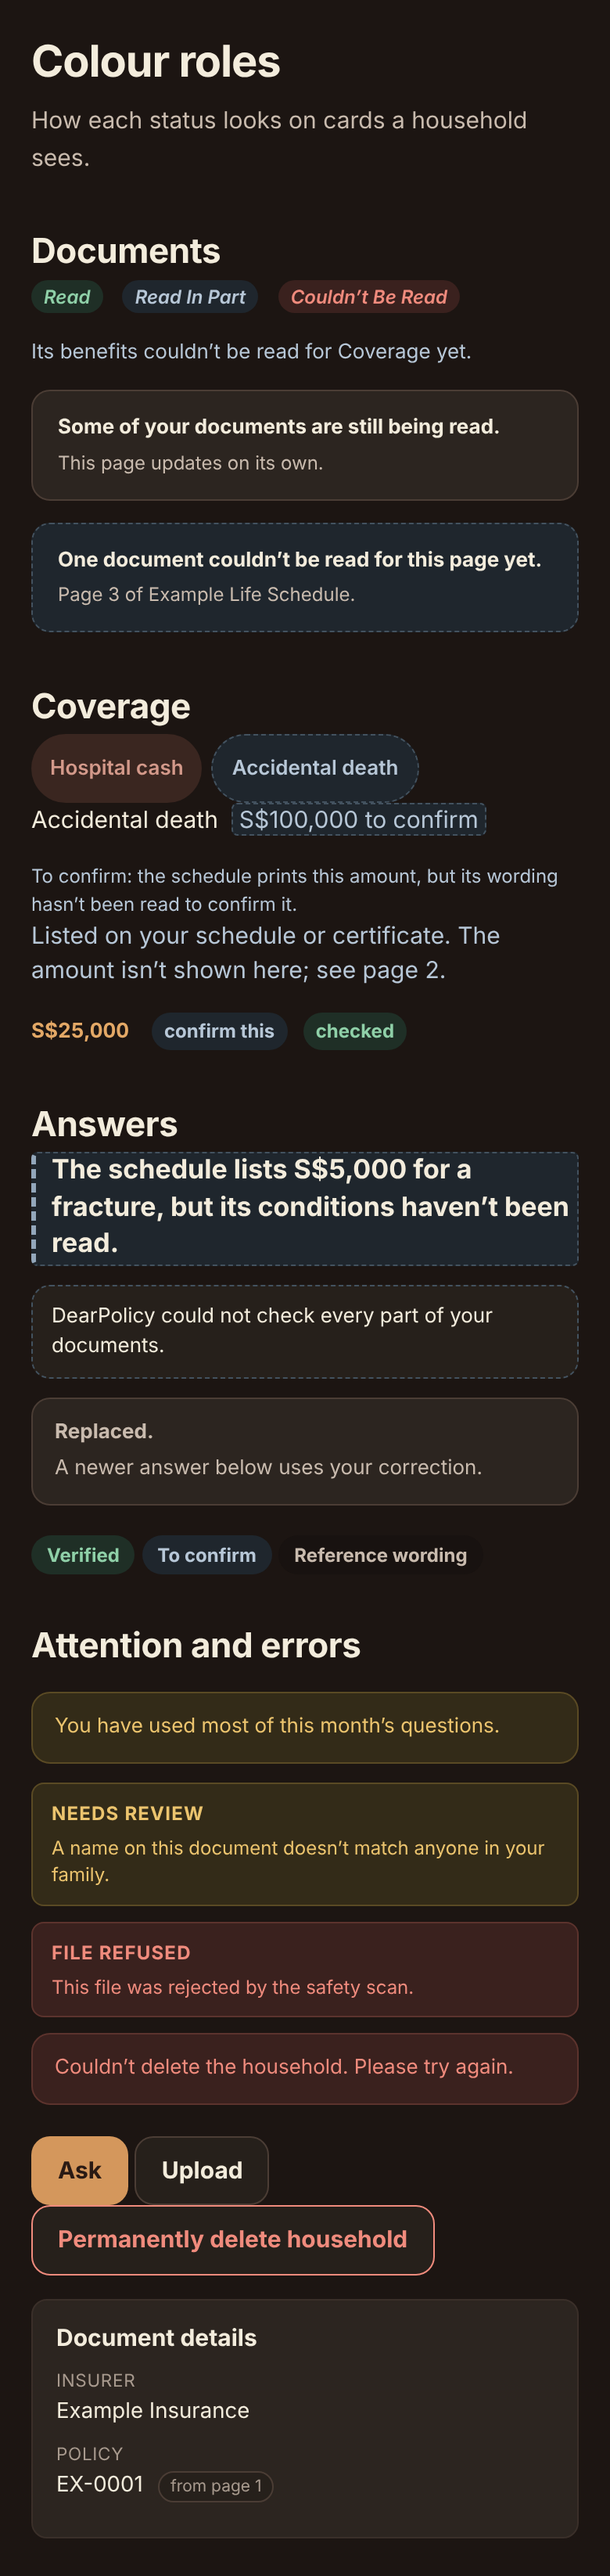
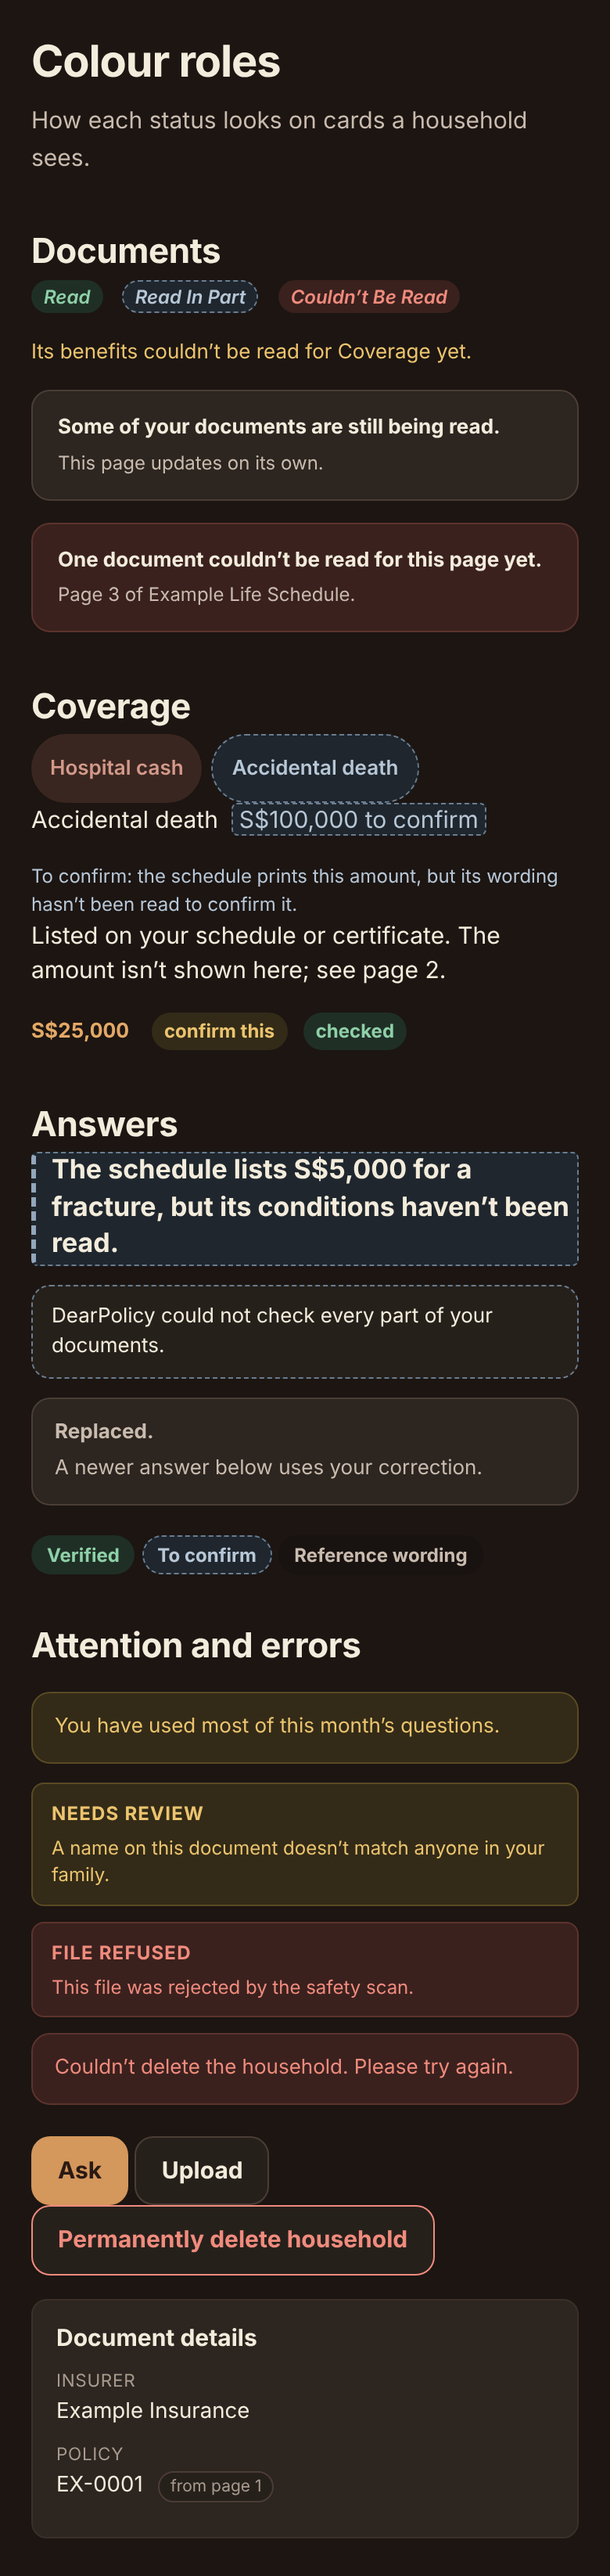
Brand: keep failed reads as errors and actions as warnings (Critic R1)
- Stalled/failed reads with Try again stay critical/warn, not unresolved.
- .muted-cell scoped back to the schedule table.
- Needs-a-document, confirm-this and not-used-until-confirmed stay warn.
- Unresolved dashed edge darkened to 3:1 and checked; chips get the edge.
- Test 5 pins which meaning gets which role; scan also covers .ts files.
- Danger button keeps its red edge on hover; brand.md claims corrected.

Claude-Session: https://claude.ai/code/session_01JsrpozToei7P4NZHaSzJyD

Changed region(s): [[0.0308, 0.1859, 0.9538, 0.2479], [0.2769, 0.3718, 0.4615, 0.4028]]

diff --git a/app/globals.css b/app/globals.css
@@ -59,7 +59,7 @@
   --unresolved: #5d6f82;      /* dots and edges, 4.9:1 on --surface */
   --unresolved-text: #3f5165; /* 7.6:1 on --unresolved-tint */
   --unresolved-tint: #edf1f5;
-  --unresolved-line: #a8b6c4;
+  --unresolved-line: #76879a; /* dashed edge, 3.2:1 on its tint */
 
   --info-text: var(--ink-2);
   --info-tint: var(--surface-2);
@@ -86,7 +86,7 @@
     --good: #7fc49a; --good-text: #8fd0a8; --good-tint: #1f2f26; --good-line: #33503f;
     --warn: #e8b85a; --warn-text: #ecc46e; --warn-tint: #332b18; --warn-line: #5a4a24;
     --critical: #f08b7d; --critical-tint: #3a211e; --critical-line: #5c332d;
-    --unresolved: #93a7bb; --unresolved-text: #b7c7d7; --unresolved-tint: #1f262d; --unresolved-line: #43525f;
+    --unresolved: #93a7bb; --unresolved-text: #b7c7d7; --unresolved-tint: #1f262d; --unresolved-line: #6a7d90;
     --scrim: rgba(0, 0, 0, .5);
     --shadow-float: 0 4px 14px rgba(0, 0, 0, .45), 0 1px 2px rgba(0, 0, 0, .3);
     --focus: 0 0 0 3px rgba(211, 153, 138, .45);
@@ -201,7 +201,7 @@ a.mini-button { display: inline-flex; align-items: center; text-decoration: none
 .status { border-radius: 999px; padding: 3px 8px; background: var(--bg-2); color: var(--ink-2); text-transform: capitalize; font-size: var(--fs-xs); font-weight: 600; }
 .status.ready { background: var(--good-tint); color: var(--good-text); }
 .status.failed { background: var(--critical-tint); color: var(--critical); }
-.status.ready.partial { background: var(--unresolved-tint); color: var(--unresolved-text); }
+.status.ready.partial { background: var(--unresolved-tint); color: var(--unresolved-text); outline: 1px dashed var(--unresolved-line); outline-offset: -1px; }
 .status.queued, .status.uploaded, .status.extracting, .status.indexing { background: var(--brand-tint); color: var(--brand-ink); }
 .good { color: var(--good-text) !important; }
 .muted { color: var(--muted) !important; }
@@ -366,7 +366,7 @@ a.mini-button { display: inline-flex; align-items: center; text-decoration: none
 .profile-status { margin: 0; font-size: var(--fs-sm); color: var(--ink-2); }
 .profile-status.error { color: var(--critical); font-weight: 600; }
 .profile-fields[hidden] { display: none; }
-.button.danger { border-color: var(--critical); color: var(--critical); }
+.button.danger, .button.danger:hover { border-color: var(--critical); color: var(--critical); }
 .document-list { display: grid; gap: 12px; }
 .document-card { background: var(--surface); border: 1px solid var(--line); border-radius: var(--r-lg); padding: 16px; display: grid; gap: 12px; }
 .document-card.needs-review { border-color: var(--warn-line); }
@@ -379,7 +379,7 @@ a.mini-button { display: inline-flex; align-items: center; text-decoration: none
 .document-title .document-file { font-size: var(--fs-xs); color: var(--muted); overflow-wrap: anywhere; }
 .document-for, .document-found, .document-names { margin: 0; font-size: var(--fs-sm); color: var(--ink-2); }
 .document-for b, .document-found b { color: var(--ink); margin-right: 4px; }
-.document-found.warn { color: var(--unresolved-text); }
+.document-found.warn { color: var(--warn-text); }
 .document-names { font-size: var(--fs-xs); color: var(--muted); }
 .document-override { margin: 0; font-size: var(--fs-sm); color: var(--ink-2); }
 .document-title .status { justify-self: start; margin-top: 4px; font-style: normal; text-transform: none; white-space: nowrap; }
@@ -438,7 +438,7 @@ a.mini-button { display: inline-flex; align-items: center; text-decoration: none
 .evidence-card-head span { font-size: var(--fs-xs); color: var(--muted); }
 .evidence-badge { font-size: var(--fs-xs); font-weight: 650; border-radius: 999px; padding: 5px 10px; white-space: nowrap; }
 .evidence-badge.verified { background: var(--good-tint); color: var(--good-text); }
-.evidence-badge.review { background: var(--unresolved-tint); color: var(--unresolved-text); }
+.evidence-badge.review { background: var(--unresolved-tint); color: var(--unresolved-text); outline: 1px dashed var(--unresolved-line); outline-offset: -1px; }
 .evidence-badge.reference { background: var(--bg-2); color: var(--ink-2); }
 .evidence-amount { font-size: var(--fs-2xl); font-weight: 650; letter-spacing: -.02em; color: var(--money); font-variant-numeric: tabular-nums; }
 .evidence-meta { display: flex; gap: 8px; flex-wrap: wrap; color: var(--muted); font-size: var(--fs-xs); }
@@ -575,8 +575,8 @@ a.mini-button { display: inline-flex; align-items: center; text-decoration: none
 .composition-benefit-head strong { font-size: var(--fs-md); font-variant-numeric: tabular-nums; color: var(--money); }
 .composition-benefit-head em { font-style: normal; font-size: var(--fs-xs); text-transform: uppercase; letter-spacing: .06em; font-weight: 650; color: var(--muted); }
 .composition-benefit.included .composition-benefit-head em { color: var(--good-text); }
-.composition-benefit.blocked .composition-benefit-head em { color: var(--warn-text); }
-.composition-benefit.needs_document .composition-benefit-head em, .composition-benefit.needs_review .composition-benefit-head em { color: var(--unresolved-text); }
+.composition-benefit.blocked .composition-benefit-head em, .composition-benefit.needs_document .composition-benefit-head em { color: var(--warn-text); }
+.composition-benefit.needs_review .composition-benefit-head em { color: var(--unresolved-text); }
 .composition-benefit.excluded .composition-benefit-head strong { color: var(--muted); }
 .composition-blocked-reason { font-size: var(--fs-sm); line-height: 1.5; margin: 4px 0; color: var(--ink-2); }
 .composition-why { margin-top: 6px; }
@@ -686,12 +686,12 @@ a.mini-button { display: inline-flex; align-items: center; text-decoration: none
 .schedule-table th { font-size: var(--fs-xs); text-transform: uppercase; letter-spacing: .05em; color: var(--muted); font-weight: 650; }
 .schedule-table td strong { font-size: var(--fs-sm); }
 .schedule-table td em { color: var(--muted); font-style: normal; }
-.schedule-table tr.needs-review { background: var(--unresolved-tint); }
+.schedule-table tr.needs-review { background: var(--warn-tint); }
 .schedule-table .pays-cell { font-weight: 650; color: var(--money); font-variant-numeric: tabular-nums; }
-.schedule-table .muted-cell, .muted-cell { color: var(--unresolved-text); }
-.schedule-flag { display: inline-block; margin-left: 6px; font-size: var(--fs-xs); font-weight: 650; padding: 3px 8px; border-radius: 999px; background: var(--unresolved-tint); color: var(--unresolved-text); white-space: nowrap; }
+.schedule-table .muted-cell { color: var(--unresolved-text); }
+.schedule-flag { display: inline-block; margin-left: 6px; font-size: var(--fs-xs); font-weight: 650; padding: 3px 8px; border-radius: 999px; background: var(--warn-tint); color: var(--warn-text); white-space: nowrap; }
 .schedule-flag.checked { background: var(--good-tint); color: var(--good-text); }
-.pays-unconfirmed { display: block; margin-top: 3px; font-size: var(--fs-xs); font-weight: 500; color: var(--unresolved-text); line-height: 1.35; }
+.pays-unconfirmed { display: block; margin-top: 3px; font-size: var(--fs-xs); font-weight: 500; color: var(--warn-text); line-height: 1.35; }
 .pays-basis { display: block; margin-top: 3px; font-size: var(--fs-xs); font-weight: 500; color: var(--muted); line-height: 1.35; }
 .schedule-editor { display: grid; grid-template-columns: minmax(0, 1fr) minmax(0, 1fr); gap: 16px; margin-top: 12px; padding: 16px; border: 1px solid var(--brand-tint-2); border-radius: var(--r-md); background: var(--brand-tint); }
 .schedule-editor-source small { font-size: var(--fs-xs); text-transform: uppercase; letter-spacing: .05em; color: var(--muted); font-weight: 650; }
@@ -1087,7 +1087,7 @@ a.mini-button { display: inline-flex; align-items: center; text-decoration: none
 .upload-drop .upload-drop-hint { font-size: var(--fs-sm); color: var(--ink-2); }
 .upload-form .upload-status { grid-column: 1 / -1; margin-top: 0; }
 .field-note { display: block; margin-top: 4px; font-size: var(--fs-xs); color: var(--muted); }
-.unread-documents.stalled { border-color: var(--unresolved-line); border-style: dashed; background: var(--unresolved-tint); }
+.unread-documents.stalled { border-color: var(--critical-line); background: var(--critical-tint); }
 @media (max-width: 620px) { .trust-strip { display: none; } }
 .field-hint { font-size: var(--fs-xs); color: var(--muted); margin: 4px 0 0; min-height: 0; }
 .field-hint:empty { display: none; }
@@ -1118,7 +1118,7 @@ a.mini-button { display: inline-flex; align-items: center; text-decoration: none
 .answer-bottom-line { font-size: var(--fs-lg, 1.1rem); font-weight: 650; line-height: 1.4; color: var(--ink); margin: 0; }
 /* An answer the documents leave to confirm: flagged before its first word, never drawn like a finding. */
 .answer-bottom-line.to-confirm { border-left: 3px dashed var(--unresolved); padding-left: 10px; }
-.answer-flag { display: block; width: fit-content; margin-bottom: 4px; padding: 1px 8px; border-radius: 999px; background: var(--warn-tint); color: var(--warn-text); font-size: var(--fs-xs); font-weight: 650; letter-spacing: .02em; }
+.answer-flag { display: block; width: fit-content; margin-bottom: 4px; padding: 1px 8px; border-radius: 999px; background: var(--unresolved-tint); color: var(--unresolved-text); border: 1px dashed var(--unresolved-line); font-size: var(--fs-xs); font-weight: 650; letter-spacing: .02em; }
 .answer-cards > .next-steps { margin: 0; }
 /* A turn that stopped before answering: a stop, with one tap to a narrower question. */
 .answer-stopped { display: grid; gap: 6px; }

diff --git a/scripts/brand/tokens-test.ts b/scripts/brand/tokens-test.ts
@@ -63,7 +63,7 @@ test("1. no colour literal outside the token blocks", () => {
     for (const name of readdirSync(dir)) {
       const p = join(dir, name);
       if (statSync(p).isDirectory()) { if (p !== join("app", "api")) walk(p); }
-      else if (/\.tsx$/.test(name)) files.push(p);
+      else if (/\.tsx?$/.test(name)) files.push(p);
     }
   };
   walk("app"); walk("components");
@@ -108,6 +108,9 @@ const PAIRS: Array<[string, string, number, string]> = [
   ["--good-text", "--surface", 4.5, "confirmed text"],
   ["--unresolved-text", "--unresolved-tint", 4.5, "a to-confirm chip"],
   ["--unresolved-text", "--surface", 4.5, "not-settled text on a card"],
+  ["--unresolved-text", "--surface-2", 4.5, "not-settled text in a quiet block"],
+  ["--unresolved-line", "--surface", 3, "the dashed edge of a not-settled item"],
+  ["--unresolved-line", "--unresolved-tint", 3, "the dashed edge on its own tint"],
   ["--warn-text", "--warn-tint", 4.5, "a warning box"],
   ["--warn-text", "--surface", 4.5, "warning text on a card"],
   ["--critical", "--critical-tint", 4.5, "an error box"],
@@ -135,4 +138,28 @@ test("4. the four status roles are told apart by more than hue", () => {
     assert.equal(seen.size, roles.length, "each status role has its own colour");
   }
   assert.match(css, /\.to-confirm \{[^}]*dashed/, "a to-confirm item has a dashed edge, not only a colour");
+});
+
+// Which meaning gets which role. A failure the household can retry is never
+// drawn as calm uncertainty; uncertainty is never drawn as a failure.
+const ROLE_OF: Array<[RegExp, string, string]> = [
+  [/\.unread-documents\.stalled \{[^}]*/, "--critical", "a read that failed, with Try again, is an error"],
+  [/\.status\.failed \{[^}]*/, "--critical", "a document that couldn't be read is an error"],
+  [/\.accuracy-warning\.danger \{[^}]*/, "--critical", "a file refused by the scan is an error"],
+  [/\.alert\.error \{[^}]*/, "--critical", "an error box"],
+  [/\.document-found\.warn \{[^}]*/, "--warn", "benefits that failed to read need the household"],
+  [/\.usage-warnings \{[^}]*/, "--warn", "a limit close to running out"],
+  [/\.status\.ready\.partial \{[^}]*/, "--unresolved", "Read in part is not settled"],
+  [/\.to-confirm \{[^}]*/, "--unresolved", "an amount to confirm is not settled"],
+  [/\.coverage-unconfirmed \{[^}]*/, "--unresolved", "a printed amount whose wording isn't read"],
+  [/\.estimate-basis\.indicative \{[^}]*/, "--unresolved", "an illustration is not a settled amount"],
+  [/\.unread-documents \{[^}]*/, "--info", "still being read is neutral news"],
+  [/\.status\.ready \{[^}]*/, "--good", "a read document is confirmed"],
+];
+test("5. each meaning keeps its role", () => {
+  const wrong = ROLE_OF.flatMap(([rule, role, why]) => {
+    const body = rule.exec(rest)?.[0] ?? "";
+    return body.includes(`var(${role}`) ? [] : [`${why}: expected ${role} in "${body.slice(0, 90)}"`];
+  });
+  assert.deepEqual(wrong, []);
 });

diff --git a/docs/brand.md b/docs/brand.md
@@ -5,14 +5,17 @@ It should feel calm, clear, trustworthy and warm: a knowledgeable friend
 sitting at the kitchen table, not a bank, not a salesperson.
 
 The tokens live at the top of `app/globals.css`. `npm run brand:tokens-test`
-fails the build if a colour is hard-coded elsewhere, if a page uses an
-undefined token, or if a role drops below WCAG AA in light or dark.
+(a CI step) fails if the stylesheet hard-codes a colour outside the token
+blocks, if a page or component sets a colour literal in a style, if any
+`var(--token)` is undefined, if a role drops below WCAG AA in light or dark,
+or if a key meaning (failed read, to confirm, still reading…) changes role.
 
 ## Colour carries meaning
 
 Each colour has one meaning and is spent on nothing else. A status is never
-told by colour alone: it always has words, and an unresolved item also has a
-dashed edge.
+told by colour alone: it always has words. Unresolved boxes, chips and the
+to-confirm answer line also have a dashed edge; unresolved plain text
+relies on its words.
 
 | Role | Tokens | Means | Used for |
 | --- | --- | --- | --- |
@@ -20,17 +23,17 @@ dashed edge.
 | Action | `--accent`, `--accent-ink` | something to press | the primary button on a screen (one per view) |
 | Documented figure | `--money` | an amount printed in the household's documents | benefit and claim amounts, totals; always tabular figures |
 | Confirmed | `--good-*` | read, matched, verified, saved | "Read", "Matched", "Saved", a covered benefit |
-| Unresolved | `--unresolved-*` + dashed edge | not settled yet; no fault of the household | a page not read, "Read in part", an amount to confirm, a benefit that depends on conditions, an indicative estimate |
-| Warning | `--warn-*` | the household should look or decide | a name to confirm, a claim waiting on their documents, a usage limit near its end, a held file |
-| Error | `--critical-*` | something failed or will be destroyed | upload failed, form errors, a rejected file, delete buttons |
+| Unresolved | `--unresolved-*` + dashed edge | not settled yet, and nothing for the household to fix | "Read in part", an amount whose wording isn't read yet, a benefit that depends on conditions, an indicative estimate, "could not check every part" |
+| Warning | `--warn-*` | the household (or a reviewer) should look, decide or provide | a name to confirm, "confirm this" on a benefit, a benefit that needs a document, a claim waiting on their documents, benefits that failed to read, a usage limit near its end, a held file |
+| Error | `--critical-*` | something failed or will be destroyed | upload failed, a document or page that couldn't be read (with Try again), form errors, a rejected file, delete buttons |
 | Information | `--info-*` (warm neutrals) | neutral news | "still being read", "replaced", invite-only sign-up |
 
 Rules of thumb:
 
-- Unresolved is not a warning. "We could not read page 3" or "this amount
-  still needs its wording confirmed" is honest uncertainty, drawn in calm
-  slate with a dashed edge, not in amber. Amber is kept for things the
-  household can act on.
+- Unresolved is not a warning. "Read in part" or "this amount still needs
+  its wording confirmed" is honest uncertainty, drawn in calm slate with a
+  dashed edge, not in amber. Amber is kept for things someone can act on,
+  and a read that failed with a reason and Try again stays an error.
 - Missing information is never drawn as an error or an exclusion.
 - A documented figure is drawn in `--money` only when the server resolved
   it from the document. A conditional illustration sits under an
@@ -54,8 +57,9 @@ Rules of thumb:
 | `--warn-text` | `#7a5600` | `#ecc46e` |
 | `--critical` | `#a3342a` | `#f08b7d` |
 
-Contrast is checked by the test, not by eye: text 4.5:1, dots, edges and
-input borders 3:1, in both themes.
+Contrast is checked by the test, not by eye: text 4.5:1; dots, the
+unresolved dashed edge and input borders 3:1; in both themes. Decorative
+card borders between siblings are not status cues and are not held to 3:1.
 
 ## Type
 
